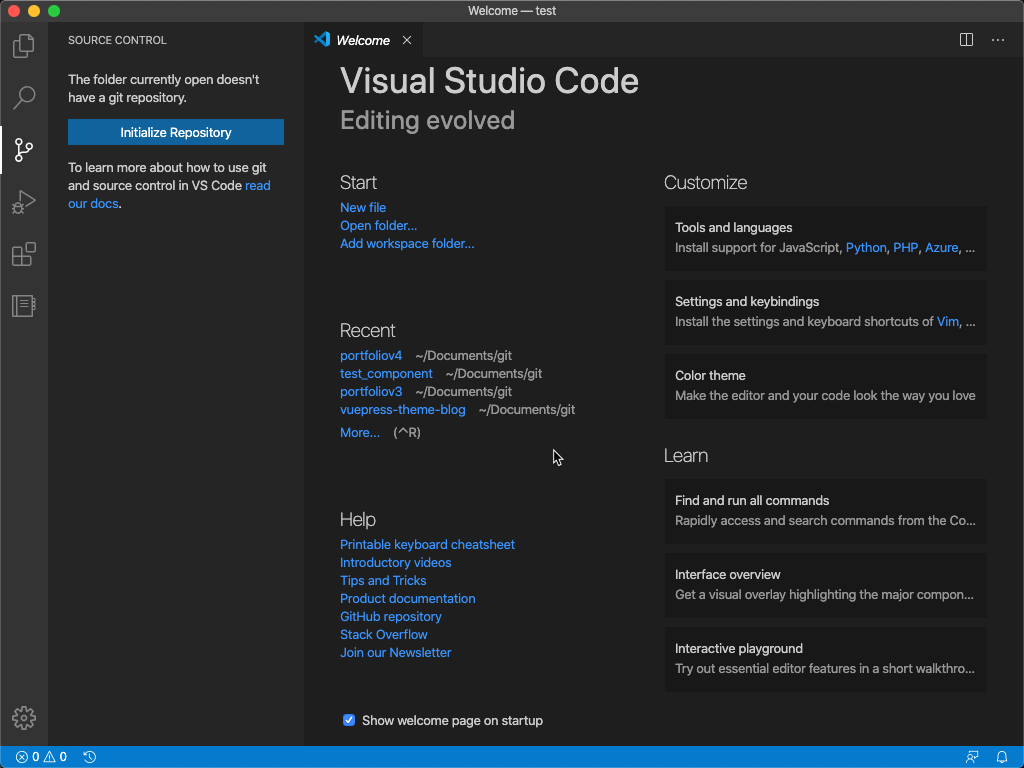
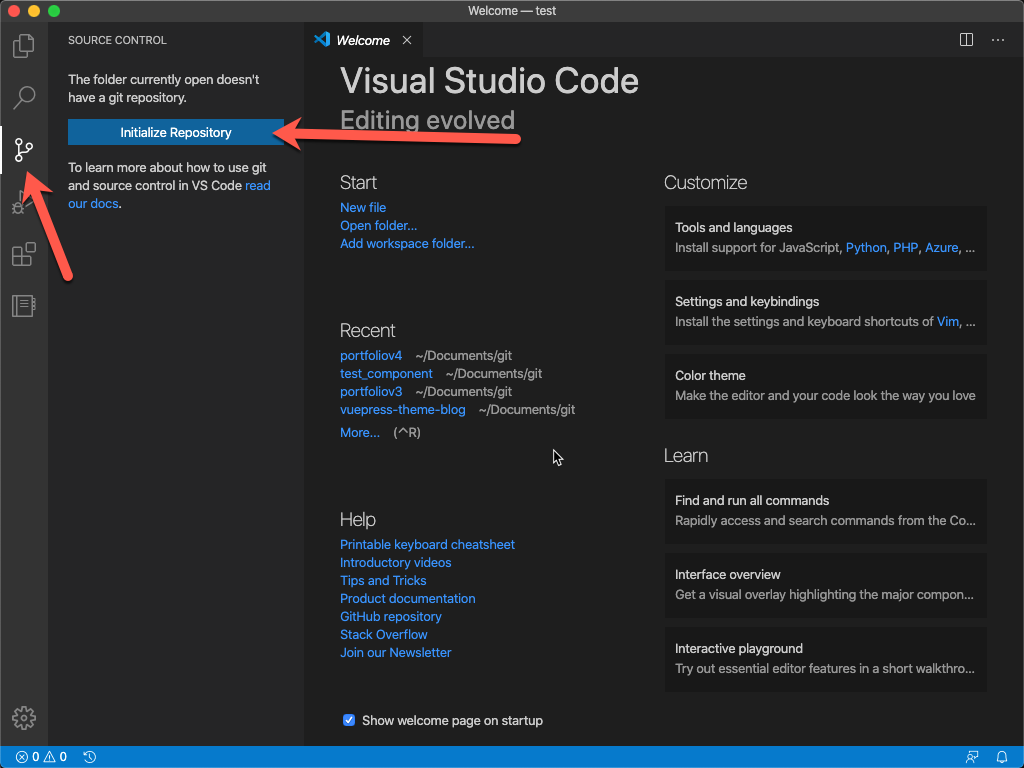
NowUI P2 finished!?

Changed region(s): [[0.25, 0.1562, 0.5312, 0.1875], [0.0, 0.2188, 0.0625, 0.3438], [0.0625, 0.3438, 0.0938, 0.375]]

diff --git a/content/posts/2020-03-24-nowui-part1point5/index.md b/content/posts/2020-03-24-nowui-part1point5/index.md
@@ -1,6 +1,6 @@
 ---
-title: "Now Experience Part 1.5: Maintaining your Workspace and Managing your Code"
-summary: "If you Git Commit to this blog I'll NPM Upgrade our relationship ;)"
+title: "Now Experience Part 1.5: Managing and Sharing Your Code"
+summary: "If you Git Commit to this blog I'll REBASE our relationship ;)"
 date: 2020-03-24T14:02:57+10:00
 draft: true
 toc: true
@@ -10,7 +10,7 @@ tags:
   - Now Experience
 ---
 
-When we left off on Friday, we had got our basic workspace set up to start making Now Experience components! Huzzah! Today I'm going to add just a smidgen more info and suggestions before we get going. 
+When we left off on Friday, we had got our basic workspace set up to start making Now Experience components! Huzzah! Today I'm going to add just a smidgen more info and suggestions *(Note from Future Andrew: HAHAHA SMIDGEN SORRY IT'S LONGER)* before we get going. 
 
 > This whole blog post is optional, but it's something else that's good to learn!
 
@@ -50,12 +50,12 @@ computer:test-project aalburydor$             # Happy days!
 ```
 On windows the commands are the same, the terminal just looks different ;)
 
-> Hot Tip: Don't make directories for Node projects (Like Now Components) in Cloud Backup folders. It might seem like a good idea to back up your code to Google Drive, but as you will see in my Part 2 blog post, a project could have upwards of 100,00 files in it. That takes *way to long* to sync.
+> Hot Tip: Don't make directories for Node projects (Like Now Components) in Cloud Backup folders. It might seem like a good idea to back up your code to Google Drive, but as you will see in my Part 2 blog post, a project could have upwards of 100,000 files in it. That takes *way too long* to sync.
 
 
 ### 3. Open the Directory in Visual Studio Code
 
-If you haven't ever used an "IDE" (Integrated Development Environment) that's another talk for waaay later. Put simply it's a text editor for code with heaps of extra features and plugins. For now - let's get on the same page. Download and install [Visual Studio Code](https://code.visualstudio.com/) (Extra points for using your Package Manager: `brew install visual-studio-code`).
+If you haven't ever used an "IDE" (Integrated Development Environment) don't sweat it, that's another talk for waaay later. Put simply it's a text editor for code with heaps of extra features and plugins. For now - let's get on the same page. Download and install [Visual Studio Code](https://code.visualstudio.com/) (Extra points for using your Package Manager: `brew install visual-studio-code`).
 
 Once it's installed and open, click File / Open Folder and find the folder you created earlier.
 
@@ -65,18 +65,116 @@ Once it's installed and open, click File / Open Folder and find the folder you c
 
 Next we want to start tracking the directory with the Git tool. To do this, we create a **Repository**. 
 
-Normally, you use Git via the command line, but VS Code has a Git integration built in with buttons! *Everyone loves buttons!*
+Normally, you use Git via the command line, but VS Code has a Git integration built in with buttons! *Everyone loves buttons!* I'll step through the buttons, and the command line, and what it does. 
 
-Click on the Git icon 
+Click on the Git icon and hit the big "Initialize Repository" button. This is the equivalent of running the command `git init` inside the folder.
 
 ![VSCode Init](./vscode2.png)
 
+The left hand pane will change to show you are using Git as source control, and will show no new changes.
 
----
+> Light Bulb Moment: I didn't understand how git did what git did, until I realised *initializing a repository* just meant __creating a new, hidden folder called .git__ inside your project folder. This is how git works, storing all your changes and versioning information. It's not magic, it's files!
 
-As for how it works, this bit is often a little harder to understand. Here's something that I didn't know, but once I figured it out kinda crystallized everything in my mind:
+### 5. Make Some Changes and Commit (Yeah Baby)
 
-> Git creates
+At this point we have a new, local git repository. To make things easier to follow, we are going to create a file that we want to track. 
 
-## Maintaining Your Workspace (Or: Things Change So Deal With It)
+Create a new file in your folder called "README.md", and copy the following into it:
+
+``` markdown
+# HI Internet, I'm tracking code changes!
+
+> Because Code is Fun!
+
+And I'm a cool person with a cool hobby and/or job <3
+
+Created with Love following [Upside-Down Andrew's Tutorial](https://andrew.alburydor.com/posts/2020-03-24-nowui-part1point5/)
+```
+
+Save the file, and you will see something new in your Source Control tab in VS Code:
+
+![Untracked File](vscode3.png)
+
+This shows that Git has found a file in a folder that it's watching, that it hasn't been told to track. We want to track it, so that's the next step. 
+
+Click the little "+" next to the file to add it, or click the "+" on the "Changes" menu to add all the files. This is the equivalent of running `git add README.md` or `git add .` to add all files and folders.
+
+Again the view changes, and you can see the following:
+
+![Tracked changes](vscode4.png)
+
+Your new file is now tracked by Git, but is waiting to be "Committed" to the repository. Committing is just that, it tells git you are done with the file and *committed* to your changes. Every commit needs a comment, and it's a good habit to give it a meaningful one. In this case, we can use "Initial commit" because it's true!
+
+Type in your comment into the "Message" box and hit the big "✓" to commit your new file to your repository:
+
+![Initial Commit](vscode5.png)
+
+Your changes should disappear. This is normal. Be not afraid! Follow me (to point 6), for I am the [pied piper](https://thumbs.worthpoint.com/zoom/images2/1/0716/30/pied-piper-letterman-jacket-hbos_1_3602cf1488140d586c53f91d077c1483.jpg).
+
+### 6. Push it to the CLOUD!
+
+Our last point of call is GitHub. We have a repository, which is AWESOME, but it's sitting in a folder, on your computer, all lonely. Wouldn't you like to give it [a whole bunch of friends](https://octoverse.github.com/)?
+
+If you haven't registered for a GitHub account, [please do so here](https://github.com/join). Once you have signed up, register a new Repository on the site: 
+
+![Github 1](github1.png)
+
+Enter your name, a description, and choose if you want this to be public or private.
+
+![Github New](github2.png)
+
+> We don't want to "initialize this repository", as we did that on our local computer. Once you get a bit better at Git you can create the repository in GitHub and clone it to your computer to start a project that way. 
+
+ That's totally up to you, but don't be afraid to share your learning. People will subscribe to your cool projects, and star them to follow their updates. Everyone starts somewhere, and showing your learning is great!
+
+**Hit the big button!**
+
+Now, GitHub shows you exactly what you need to do to get going with this online repository: 
+
+![GitHub 3](github3.png)
+
+As we were using VS Code, we can do this through the editor. 
+
+First, we want to add your GitHub as a "Remote" - Press `Cmd/Ctrl+Shift+P` in VS Code, and type "git remote" to see the option "Add Remote":
+
+![VSCode Remote](vscode6.png)
+
+It asks for a name, enter `origin`, then the URL from the GitHub page, in my case `https://github.com/dorsy99/test-repo.git`
+
+This is the same as running the command `git remote add origin https://github.com/dorsy99/test-repo.git` (telling git to add a remote, called origin, and the URL)
+
+Next, we want to push our code to GitHub!
+
+In your Source Control tab, select the three-dot menu, and click "Push", or hit the little "sync" button down the bottom of your editor: 
+
+![VSCode Push](vscode7.png)
+
+> Git may ask you for credentials at this point. Use the same details as you registered with GitHub.
+
+This is the equivalent of running the command `git push -u origin master`
+
+And believe it or not, THAT'S IT. 
+
+Your code is live on GitHub! Refresh the page to see your new repository with comments: 
+
+![GitHub Finished](github4.png)
+
+## Wrap Up
+
+Once again, this has taken a lot more words than I thought, BUT it's a great thing to know how to do. We completed the following:
+- Installed Git and Visual Studio Code
+- Initialized a new Repo (Man that sounds cool!)
+- Committed a new file
+- Added a Remote location for our code (GitHub)
+- Pushed our code up to the Remote so it's backed up
+- Read SO MANY MORE WORDS AGAIN! I'M STILL SORRY!
+
+I don't want to push you, you have done SO WELL already, but... If you are up for it, here's some extra credit homework:
+
+- Make some more changes, or more repositories for existing projects you have on the go (remember, `git init` then `git add .` adds all existing files to a new repository)
+- [Follow me on GitHub](https://github.com/dorsy99/)!
+- Check out some cool Visual Studio Code Themes and Plugins (from the in-built Extensions menu)
+- Read about Branches, Merges, and Rebases to really geek on on Git
+- Check out my good friend [Jace's GitHub](https://github.com/jacebenson) and [Website](https://jace.pro)
+
 
